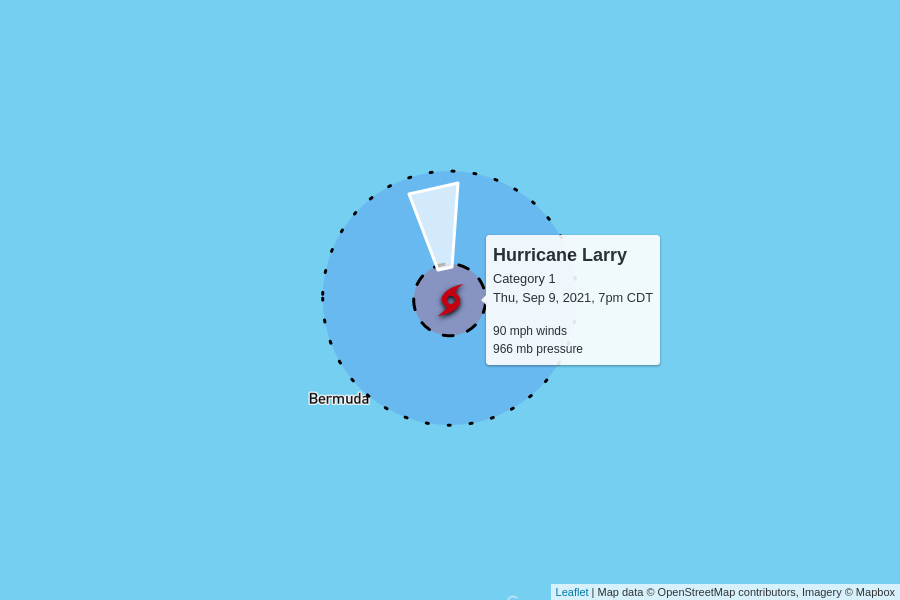
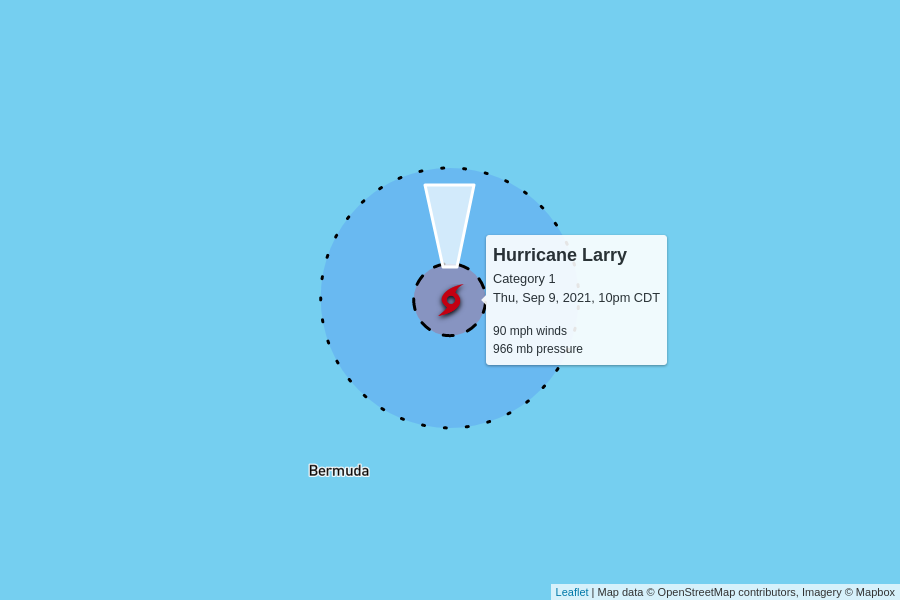
automatic update

diff --git a/docs/index.html b/docs/index.html
@@ -100,7 +100,7 @@
         <td colspan="6" class="storm category-1">
           <h2>
             Hurricane Larry - Category 1
-            <p class="updated">last updated <span data-time>2021-09-10T00:00:00.000Z</span></p>
+            <p class="updated">last updated <span data-time>2021-09-10T03:00:00.000Z</span></p>
           </h2>
         </td>
       </tr>
@@ -118,9 +118,9 @@
         <td>90 mph</td>
         <td>966 mb</td>
         <td>
-          21 mph to the north
+          25 mph to the north
           <br/>
-          <span style="display: inline-block; font-size: 1.5em; transform: rotate(350deg);">↑</span>
+          <span style="display: inline-block; font-size: 1.5em; transform: rotate(360deg);">↑</span>
         </td>
         <td><a href="https://raw.githubusercontent.com/mgwalker/atlantic-hurricanes/main/data/csv/AL122021.csv">AL122021.csv</a></td>
         <td><a href="https://www.nhc.noaa.gov/archive/2021/LARRY.shtml?">NHC advisories</a></td>
